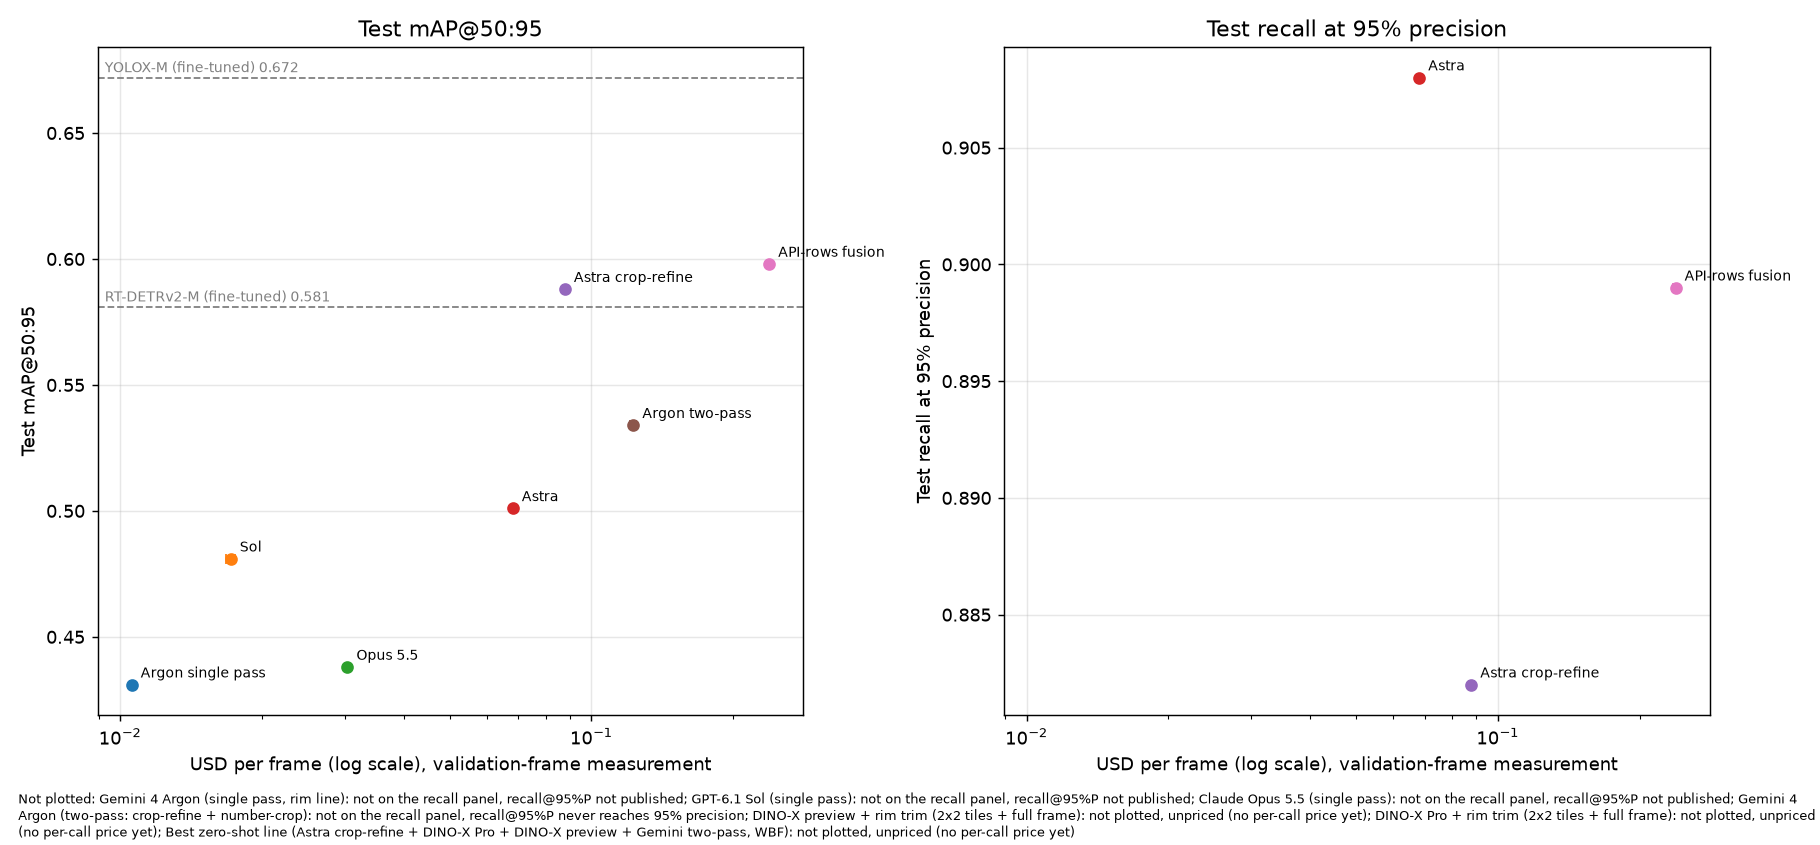
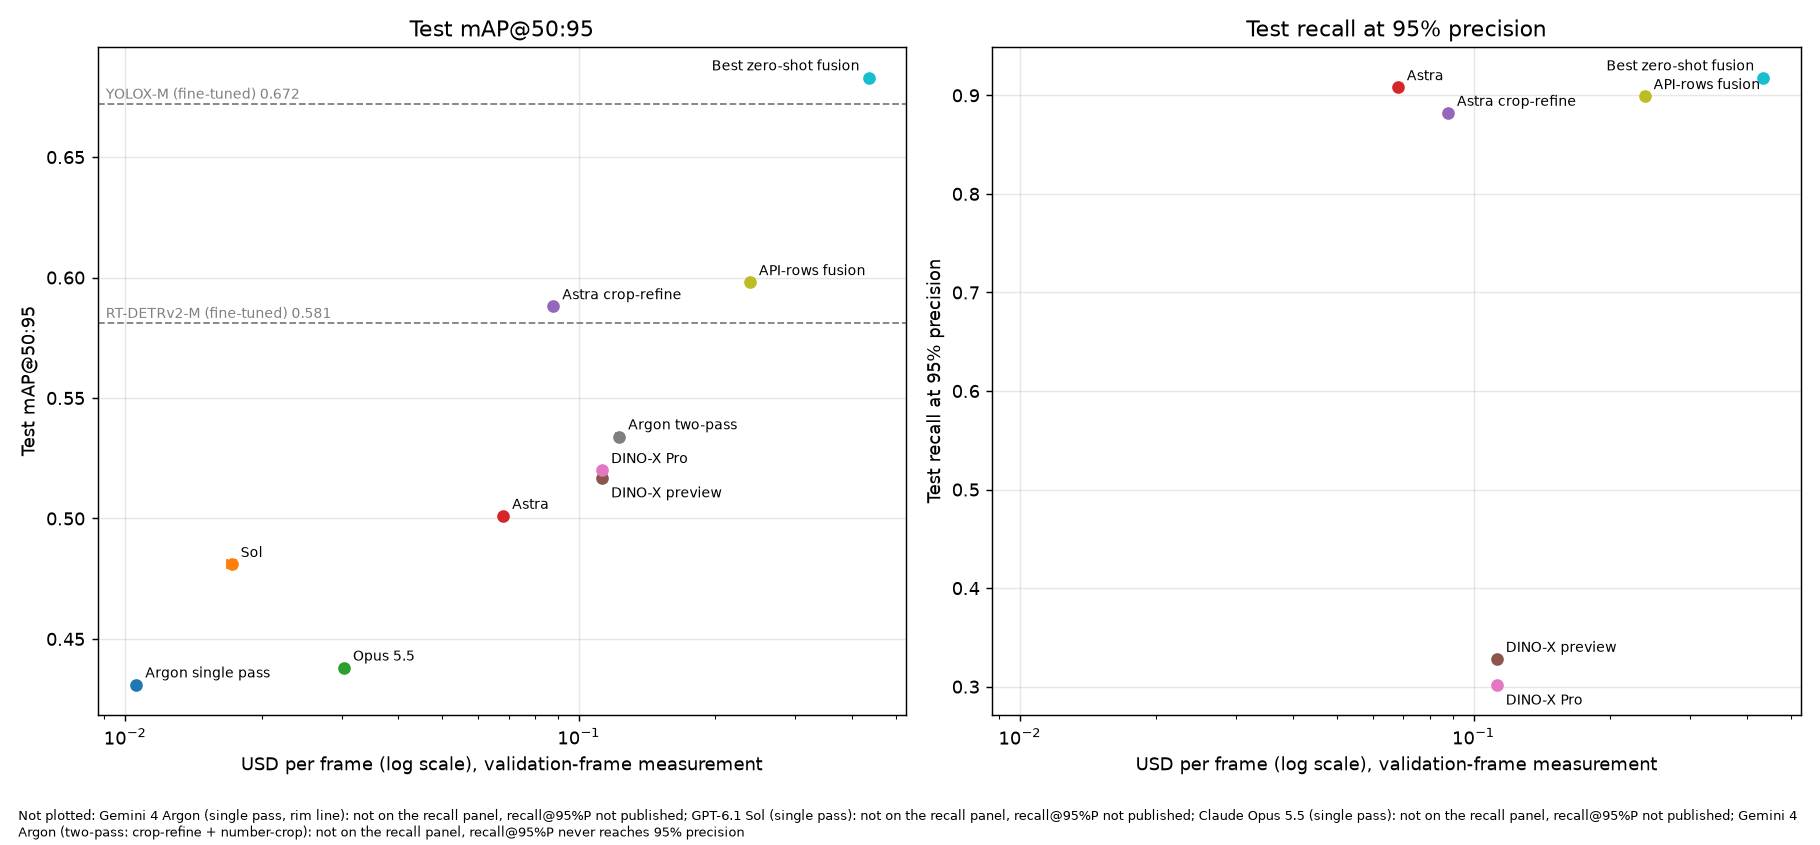
Price DINO-X at about CNY 0.15 per call ($0.0225); fill in DINO-X and best-fusion costs (#39)
User-supplied approximate price, converted at 1 USD = 6.6684 CNY (2026-10-27).
DINO-X Pro and preview: $0.1125/frame. Best zero-shot line: $0.435/frame
($0.558 from 2026-12-01). Study spend $24.13. VLM_VS_FINETUNED paragraph updated
to the priced figure; figure labels de-collided. Unpriced path stays tested through a
test-only price book.

diff --git a/tests/cost/test_compute.py b/tests/cost/test_compute.py
@@ -32,6 +32,7 @@ from tests.cost._synth import (
     astra_call,
     dinox_call,
     gemini_call,
+    unpriced_per_call_prices,
     write_run,
     write_study,
 )
@@ -44,6 +45,12 @@ ACCURACY_YAML = REPO / "benchmarks" / "basketball" / "conf" / "cost_published_ac
 @pytest.fixture(scope="module")
 def prices() -> PriceBook:
     return load_prices(PRICES_YAML)
+
+
+@pytest.fixture(scope="module")
+def unpriced() -> PriceBook:
+    """Committed prices with the per-call (DINO-X) prices nulled: the unpriced path."""
+    return unpriced_per_call_prices()
 
 
 def _build(results_dir: Path, prices: PriceBook, accuracy: PublishedAccuracy | None = None):
@@ -82,8 +89,9 @@ def test_committed_prices_are_the_users_values(prices: PriceBook) -> None:
     for model, (in_rate, out_rate) in expect.items():
         period = prices.price_at(model, date(2026, 10, 27))
         assert (period.input_per_1m, period.output_per_1m) == (in_rate, out_rate)
-    for model in ("DINO-X-1.0", "DINO-X-PREVIEW-1.0", "T-Rex-2.0"):
-        assert prices.price_at(model, date(2026, 10, 27)).per_call_usd is None
+    for model in ("DINO-X-1.0", "DINO-X-PREVIEW-1.0"):  # CNY 0.15 at 6.6684 CNY/USD
+        assert prices.price_at(model, date(2026, 10, 27)).per_call_usd == 0.0225
+    assert prices.price_at("T-Rex-2.0", date(2026, 10, 27)).per_call_usd is None
 
 
 def test_unknown_model_and_uncovered_date_are_errors(prices: PriceBook) -> None:
@@ -157,9 +165,9 @@ def test_scenarios_price_a_record_at_its_own_date_or_a_fixed_date(prices: PriceB
     assert record_cost(december, prices, None) == pytest.approx(0.018)
 
 
-def test_null_price_is_unpriced_not_free(prices: PriceBook) -> None:
+def test_null_price_is_unpriced_not_free(unpriced: PriceBook) -> None:
     rec = _rec(provider="deepdataspace", model="DINO-X-1.0")
-    assert record_cost(rec, prices, None) is None
+    assert record_cost(rec, unpriced, None) is None
 
 
 def test_missing_tokens_raise_unless_the_call_failed(prices: PriceBook) -> None:
@@ -218,9 +226,9 @@ def test_gemini_both_price_scenarios_and_image_split(tmp_path: Path, prices: Pri
     assert gem.tokens_per_frame_mean["billable_output"] == pytest.approx(500.0)
 
 
-def test_unpriced_pipeline_is_none_not_zero(tmp_path: Path, prices: PriceBook) -> None:
+def test_unpriced_pipeline_is_none_not_zero(tmp_path: Path, unpriced: PriceBook) -> None:
     write_study(tmp_path)
-    dinox = _build(tmp_path, prices).pipelines["dinox_pro_rimtrim"]
+    dinox = _build(tmp_path, unpriced).pipelines["dinox_pro_rimtrim"]
     assert dinox.usd["current"].mean is None
     assert dinox.usd["current"].per_1000_frames is None
     assert "DINO-X-1.0" in (dinox.usd["current"].unpriced_reason or "")
@@ -247,10 +255,10 @@ def test_fused_line_is_the_sum_of_its_members_run_by_run(tmp_path: Path, prices:
 
 
 def test_fused_line_with_an_unpriced_member_reports_null_and_a_lower_bound(
-    tmp_path: Path, prices: PriceBook
+    tmp_path: Path, unpriced: PriceBook
 ) -> None:
     write_study(tmp_path)
-    fused = _build(tmp_path, prices).pipelines["fuse_ad"]
+    fused = _build(tmp_path, unpriced).pipelines["fuse_ad"]
     usd = fused.usd["current"]
     assert usd.mean is None
     assert usd.lower_bound_mean == pytest.approx(0.025)  # astra alone
@@ -268,11 +276,13 @@ def test_derived_line_not_computed_when_a_member_has_no_runs(
     assert any("fuse_ag not computed" in n for n in report.notes)
 
 
-def test_study_spend_counts_projection_and_aborted_runs(tmp_path: Path, prices: PriceBook) -> None:
+def test_study_spend_counts_projection_and_aborted_runs(
+    tmp_path: Path, unpriced: PriceBook
+) -> None:
     write_study(tmp_path)
     write_run(tmp_path, "astra", "proj", {"a.jpg": [astra_call()], "b.jpg": [astra_call()]})
     write_run(tmp_path, "gemini_argon_two_pass", "3", {"a.jpg": [gemini_call()]}, status="aborted")
-    report = _build(tmp_path, prices)
+    report = _build(tmp_path, unpriced)
     # astra: 0.04 + 0.06 + 0.04 (proj); gemini: 4 x 0.009 + 0.009 (aborted run "3")
     assert report.study_spend_usd == pytest.approx(0.14 + 0.045)
     assert report.study_spend_by_file["usage/astra__proj.jsonl"] == pytest.approx(0.04)
@@ -329,11 +339,11 @@ def _proj(tmp_path: Path) -> dict[str, LoadedRun]:
     return {r.pipeline: r for r in load_runs(tmp_path)}
 
 
-def test_projection_under_the_cap(tmp_path: Path, prices: PriceBook) -> None:
+def test_projection_under_the_cap(tmp_path: Path, unpriced: PriceBook) -> None:
     proj = project(
         _proj(tmp_path),
         {"astra": "Astra"},
-        prices,
+        unpriced,
         budget_usd=40.0,
         frames_per_run=20,
         runs=2,

diff --git a/src/object_detection_eval/cost/report.py b/src/object_detection_eval/cost/report.py
@@ -212,9 +212,10 @@ def render_markdown(report: CostReport, figure_href: str = "cost_vs_accuracy.png
         "measurement, not a service-level figure.",
         "- The Gemini 4 Argon price doubles on 2026-12-01 (input $2 to $4, output $10 to $20 "
         "per 1M tokens). Both prices are shown.",
-        "- DINO-X is billed per call from a console balance. Until a per-call price is supplied "
-        "it is shown unpriced, and any fused line containing it carries a lower bound that "
-        "leaves it out.",
+        "- DINO-X is billed per call, in CNY, from a console balance. Its price is an "
+        "approximate per-call figure converted to USD at a dated exchange rate (see the note "
+        "in `conf/cost_prices.yaml`). A model with no price is shown unpriced, and any fused "
+        "line containing it carries a lower bound that leaves it out.",
         "- Single-run accuracy gaps of about 2 points between the API rows are within the "
         'published run-to-run noise (VLM_VS_FINETUNED.md, "Parity with the Ultralytics Platform '
         'benchmark"). Do not read a ranking into small differences in the accuracy columns.',
@@ -354,6 +355,16 @@ _SHORT_LABELS: dict[str, str] = {
     "fusion4": "Best zero-shot fusion",
 }
 
+#: Per-panel label offsets (points) and alignment where the default would collide or
+#: clip: DINO-X Pro and preview share a cost and swap order between the panels; the
+#: dearest point sits on the right edge.
+_LABEL_PLACEMENT: dict[tuple[str, str], tuple[float, float, str]] = {
+    ("map_y", "dinox_preview_rimtrim"): (5, -11, "left"),
+    ("recall_y", "dinox_pro_rimtrim"): (5, -11, "left"),
+    ("map_y", "fusion4"): (-5, 4, "right"),
+    ("recall_y", "fusion4"): (-5, 4, "right"),
+}
+
 
 def render_png(report: CostReport, path: Path) -> list[str]:
     """Write the two-panel figure; return the footnote lines (points left out and why)."""
@@ -385,7 +396,15 @@ def render_png(report: CostReport, path: Path) -> list[str]:
                 xerr = [[lower], [p.x_sd]]
             ax.errorbar(p.x, y, xerr=xerr, fmt="o", capsize=3, markersize=6, color=colors[p.id])
             label = _SHORT_LABELS.get(p.id, p.id)
-            ax.annotate(label, (p.x, y), textcoords="offset points", xytext=(5, 4), fontsize=8)
+            dx, dy, ha = _LABEL_PLACEMENT.get((field, p.id), (5, 4, "left"))
+            ax.annotate(
+                label,
+                (p.x, y),
+                textcoords="offset points",
+                xytext=(dx, dy),
+                ha=ha,
+                fontsize=8,
+            )
     for ref in report.accuracy.reference_lines:
         if ref.test_map5095.value is not None:
             ax_map.axhline(ref.test_map5095.value, linestyle="--", color="gray", linewidth=1)

diff --git a/tests/cost/test_report.py b/tests/cost/test_report.py
@@ -13,7 +13,14 @@ import pytest
 from object_detection_eval.cost.compute import build_report, load_accuracy, load_prices, load_runs
 from object_detection_eval.cost.report import plot_points, render_markdown, render_png
 from object_detection_eval.cost.schemas import CostReport
-from tests.cost._synth import accuracy_config, astra_call, gemini_call, write_run, write_study
+from tests.cost._synth import (
+    accuracy_config,
+    astra_call,
+    gemini_call,
+    unpriced_per_call_prices,
+    write_run,
+    write_study,
+)
 
 REPO = Path(__file__).resolve().parents[2]
 CONF = REPO / "benchmarks" / "basketball" / "conf"
@@ -24,7 +31,7 @@ def report(tmp_path: Path) -> CostReport:
     write_study(tmp_path)
     return build_report(
         load_runs(tmp_path),
-        load_prices(CONF / "cost_prices.yaml"),
+        unpriced_per_call_prices(),
         accuracy_config(),
         price_path="p.yaml",
         accuracy_path="a.yaml",
@@ -80,7 +87,7 @@ def test_png_renders_even_with_nothing_priced(tmp_path: Path) -> None:
     write_run(tmp_path, "dinox_pro_rimtrim", "2", {"a.jpg": [_dinox()]})
     rep = build_report(
         load_runs(tmp_path),
-        load_prices(CONF / "cost_prices.yaml"),
+        unpriced_per_call_prices(),
         accuracy_config(),
         price_path="p",
         accuracy_path="a",

diff --git a/tests/cost/_synth.py b/tests/cost/_synth.py
@@ -12,7 +12,14 @@ from datetime import UTC, datetime
 from pathlib import Path
 from unittest.mock import patch
 
-from object_detection_eval.cost.schemas import FrameTiming, PublishedAccuracy, RunManifest
+import yaml
+
+from object_detection_eval.cost.schemas import (
+    FrameTiming,
+    PriceBook,
+    PublishedAccuracy,
+    RunManifest,
+)
 from object_detection_eval.inference.vlm import usage
 from object_detection_eval.inference.vlm.usage import (
     TokenUsage,
@@ -22,6 +29,22 @@ from object_detection_eval.inference.vlm.usage import (
 )
 
 DAY = datetime(2026, 10, 27, 12, 0, 0, tzinfo=UTC)
+
+PRICES_YAML = Path(__file__).resolve().parents[2] / "benchmarks/basketball/conf/cost_prices.yaml"
+
+
+def unpriced_per_call_prices() -> PriceBook:
+    """The committed price book with every per-call (DeepDataSpace) price set to null.
+
+    The unpriced path (null price -> unpriced, never free; fused lines get a lower
+    bound) must stay tested now that the committed DINO-X price is filled in.
+    """
+    raw = yaml.safe_load(PRICES_YAML.read_text())
+    for entry in raw["models"].values():
+        if entry["unit"] == "per_call":
+            for period in entry["periods"]:
+                period["per_call_usd"] = None
+    return PriceBook.model_validate(raw)
 
 
 @dataclass(frozen=True)

diff --git a/tests/scripts/test_cost_rerun.py b/tests/scripts/test_cost_rerun.py
@@ -251,14 +251,12 @@ def test_project_exit_0_under_the_cap_and_writes_projection_json(mod) -> None:
     projection = json.loads((mod._RESULTS / "projection.json").read_text())
     assert projection["over_cap"] is False
     assert projection["budget_usd"] == 40.0
-    assert sorted(projection["unpriced_pipelines"]) == [
-        "dinox_preview_rimtrim",
-        "dinox_pro_rimtrim",
-    ]
+    assert projection["unpriced_pipelines"] == []  # DINO-X is priced in the committed config
     assert projection["frames_per_run"] == 20 and projection["runs"] == 2
-    # 6 priced pipelines x $0.02/frame x 20 frames x 2 runs = $4.80 remaining, $0.36 spent
-    assert projection["projected_remaining_usd"] == pytest.approx(6 * 0.02 * 20 * 2)
-    assert projection["spent_usd"] == pytest.approx(6 * 0.02 * 3)
+    # 6 token-priced pipelines at $0.02/frame plus 2 DINO-X at one $0.0225 call per frame
+    per_frame = 6 * 0.02 + 2 * 0.0225
+    assert projection["projected_remaining_usd"] == pytest.approx(per_frame * 20 * 2)
+    assert projection["spent_usd"] == pytest.approx(per_frame * 3)
 
 
 def test_project_exit_3_above_the_cap(mod) -> None:

diff --git a/benchmarks/basketball/reports/COST.md b/benchmarks/basketball/reports/COST.md
@@ -9,7 +9,7 @@ Read the numbers with these limits in mind:
 - With 2 runs the run-to-run SD is a rough indication, not a confidence interval.
 - Latency depends on provider load and the time of day; it is one afternoon's measurement, not a service-level figure.
 - The Gemini 4 Argon price doubles on 2026-12-01 (input $2 to $4, output $10 to $20 per 1M tokens). Both prices are shown.
-- DINO-X is billed per call from a console balance. Until a per-call price is supplied it is shown unpriced, and any fused line containing it carries a lower bound that leaves it out.
+- DINO-X is billed per call, in CNY, from a console balance. Its price is an approximate per-call figure converted to USD at a dated exchange rate (see the note in `conf/cost_prices.yaml`). A model with no price is shown unpriced, and any fused line containing it carries a lower bound that leaves it out.
 - Single-run accuracy gaps of about 2 points between the API rows are within the published run-to-run noise (VLM_VS_FINETUNED.md, "Parity with the Ultralytics Platform benchmark"). Do not read a ranking into small differences in the accuracy columns.
 
 ## Headline
@@ -21,11 +21,11 @@ Read the numbers with these limits in mind:
 | Claude Opus 5.5 (single pass) | 0.438 | n/a (not published) | 1.0 (1) | $0.0303 ± $0.0001 | $30.34 | $0.0303 ± $0.0001 | $30.34 | 8.2 ± 0.1 | 8.2 ± 0.1 (1) |
 | GPT-6 Astra (single pass) | 0.501 | 0.908 | 1.0 (1) | $0.0681 ± $0.0002 | $68.08 | $0.0681 ± $0.0002 | $68.08 | 10.1 ± 0.2 | 10.1 ± 0.2 (1) |
 | Astra crop-refine (ball + rim) | 0.588 | 0.882 | 2.8 (3) | $0.0878 ± $0.0010 | $87.81 | $0.0878 ± $0.0010 | $87.81 | 15.5 ± 1.3 | 15.5 ± 1.3 (1) |
+| DINO-X preview + rim trim (2x2 tiles + full frame) | 0.517 | 0.328 | 5.0 (5) | $0.1125 ± $0.0000 | $112.50 | $0.1125 ± $0.0000 | $112.50 | 31.6 ± 1.0 | 4.2 ± 0.1 (8) |
+| DINO-X Pro + rim trim (2x2 tiles + full frame) | 0.520 | 0.302 | 5.0 (5) | $0.1125 ± $0.0000 | $112.50 | $0.1125 ± $0.0000 | $112.50 | 21.0 ± 2.9 | 3.2 ± 0.8 (8) |
 | Gemini 4 Argon (two-pass: crop-refine + number-crop) | 0.534 | n/a (never reaches 95% precision) | 12.6 (13) | $0.1227 ± $0.0019 | $122.68 | $0.2454 ± $0.0037 | $245.36 | 149.7 ± 0.3 | 53.0 ± 0.2 (3) |
 | API-rows fusion (Astra + Sol + Opus + Gemini two-pass, WBF) | 0.598 | 0.899 | 15.6 (16)* | $0.2383 ± $0.0026 | $238.27 | $0.3609 ± $0.0044 | $360.95 | 189.2 ± 0.6 | 92.5 ± 1.1† |
-| DINO-X preview + rim trim (2x2 tiles + full frame) | 0.517 | 0.328 | 5.0 (5) | n/a (unpriced) | n/a | n/a (unpriced) | n/a | 31.6 ± 1.0 | 4.2 ± 0.1 (8) |
-| DINO-X Pro + rim trim (2x2 tiles + full frame) | 0.520 | 0.302 | 5.0 (5) | n/a (unpriced) | n/a | n/a (unpriced) | n/a | 21.0 ± 2.9 | 3.2 ± 0.8 (8) |
-| Best zero-shot line (Astra crop-refine + DINO-X Pro + DINO-X preview + Gemini two-pass, WBF) | 0.683 | 0.918 | 25.4 (26)* | n/a (unpriced) (lower bound $0.2105) | n/a | n/a (unpriced) | n/a | 217.8 ± 2.9 | 75.9 ± 0.6† |
+| Best zero-shot line (Astra crop-refine + DINO-X Pro + DINO-X preview + Gemini two-pass, WBF) | 0.683 | 0.918 | 25.4 (26)* | $0.4355 ± $0.0009 | $435.49 | $0.5582 ± $0.0027 | $558.17 | 217.8 ± 2.9 | 75.9 ± 0.6† |
 
 `calls/frame` counts every billed request for a frame, including second-pass crop calls and tile calls; the figure in brackets is the largest count for any single frame. USD is mean ± SD over the runs. `s/frame serial` is the mean of each frame's own wall time; `s/frame at published workers` is run wall time divided by frames, which is what the published concurrency delivers.
 
@@ -45,19 +45,17 @@ Read the numbers with these limits in mind:
 | Claude Opus 5.5 (single pass) | 1.0 | 0.0 | 2,950 (n/a / n/a / 0) | 927 | 0 | 0 | 0 |
 | GPT-6 Astra (single pass) | 1.0 | 0.0 | 3,086 (n/a / n/a / 128) | 744 | 60 | 0 | 0 |
 | Astra crop-refine (ball + rim) | 1.0 | 1.8 | 4,134 (n/a / n/a / 1,024) | 929 | 153 | 0 | 0 |
-| Gemini 4 Argon (two-pass: crop-refine + number-crop) | 1.0 | 11.6 | 20,244 (6,557 / 13,687 / n/a) | 8,219 | 6,903 | 0 | 0 |
-| API-rows fusion (Astra + Sol + Opus + Gemini two-pass, WBF) | 4.0 | 11.6 | 29,366 (6,557 / 13,687 / 1,216) | 10,990 | 7,365 | 0 | 0 |
 | DINO-X preview + rim trim (2x2 tiles + full frame) | 5.0 | 0.0 | n/a (n/a / n/a / n/a) | n/a | n/a | 0 | 0 |
 | DINO-X Pro + rim trim (2x2 tiles + full frame) | 5.0 | 0.0 | n/a (n/a / n/a / n/a) | n/a | n/a | 0 | 0 |
+| Gemini 4 Argon (two-pass: crop-refine + number-crop) | 1.0 | 11.6 | 20,244 (6,557 / 13,687 / n/a) | 8,219 | 6,903 | 0 | 0 |
+| API-rows fusion (Astra + Sol + Opus + Gemini two-pass, WBF) | 4.0 | 11.6 | 29,366 (6,557 / 13,687 / 1,216) | 10,990 | 7,365 | 0 | 0 |
 | Best zero-shot line (Astra crop-refine + DINO-X Pro + DINO-X preview + Gemini two-pass, WBF) | 12.0 | 13.4 | 24,378 (6,557 / 13,687 / 1,024) | 9,149 | 7,056 | 0 | 0 |
 
 Cached input tokens were reported for at least one pipeline and are billed at the full input rate here; the cost model has no cache discount.
 
 ## Spend
 
-The whole study cost **$14.46** at the prices in force on each call's date, counting projection runs and any aborted run.
-
-Calls with no price yet (not in that total): DINO-X-1.0: 215, DINO-X-PREVIEW-1.0: 215.
+The whole study cost **$24.13** at the prices in force on each call's date, counting projection runs and any aborted run.
 
 ![USD per frame against published accuracy](../results/cost/cost_vs_accuracy.png)
 
@@ -65,8 +63,8 @@ Calls with no price yet (not in that total): DINO-X-1.0: 215, DINO-X-PREVIEW-1.0
 
 | Model id | Provider | Period | Price | Source |
 | --- | --- | --- | --- | --- |
-| DINO-X-1.0 | deepdataspace | ... to ... | per-call price not yet supplied | https://cloud.deepdataspace.com/dashboard/usage |
-| DINO-X-PREVIEW-1.0 | deepdataspace | ... to ... | per-call price not yet supplied | https://cloud.deepdataspace.com/dashboard/usage |
+| DINO-X-1.0 | deepdataspace | ... to ... | $0.0225 per call | https://cloud.deepdataspace.com/dashboard/usage |
+| DINO-X-PREVIEW-1.0 | deepdataspace | ... to ... | $0.0225 per call | https://cloud.deepdataspace.com/dashboard/usage |
 | T-Rex-2.0 | deepdataspace | ... to ... | per-call price not yet supplied | https://cloud.deepdataspace.com/dashboard/usage |
 | claude-opus-5-5 | anthropic | ... to ... | $4 in / $20 out per 1M tokens | https://claude.com/pricing |
 | gemini-4-argon | google | ... to 2026-11-30 | $2 in / $10 out per 1M tokens | https://ai.google.dev/gemini-api/docs/pricing |

diff --git a/docs/cost/dinox-console-checklist.md b/docs/cost/dinox-console-checklist.md
@@ -18,13 +18,18 @@ count but no cost. That is why the numbers below have to come from the console.
 
 ## 1. Per-call price (the blocking item)
 
+**Filled in 2026-10-28.** The user supplied about CNY 0.15 per direct model API call,
+applied to both DINO-X models and converted at 1 USD = 6.6684 CNY (2026-10-27,
+<https://www.valutafx.com/history/usd-cny-2026-10-27>). It is approximate and was not
+cross-checked against the console balance; sections 2–4 remain open for that.
+
 Copy, for each model, the price of one API call, and the unit the console uses
 (per call, per image, or per token package):
 
 | Model id | Used by | Per-call price (USD) |
 | --- | --- | --- |
-| `DINO-X-1.0` | `dinox_pro_rimtrim` (full frame + 4 tiles = 5 calls per frame) | |
-| `DINO-X-PREVIEW-1.0` | `dinox_preview_rimtrim` (5 calls per frame) | |
+| `DINO-X-1.0` | `dinox_pro_rimtrim` (full frame + 4 tiles = 5 calls per frame) | 0.0225 (about CNY 0.15) |
+| `DINO-X-PREVIEW-1.0` | `dinox_preview_rimtrim` (5 calls per frame) | 0.0225 (about CNY 0.15) |
 | `T-Rex-2.0` | few-shot only; not in this study, listed for completeness | |
 
 If the console sells call packages, divide the package price by the number of calls it

diff --git a/benchmarks/basketball/reports/VLM_VS_FINETUNED.md b/benchmarks/basketball/reports/VLM_VS_FINETUNED.md
@@ -70,7 +70,8 @@ per frame. Argon two-pass reaches 0.534 for $0.123 per frame, which doubles to $
 when Gemini prices change on 2026-12-01, and makes about 13 calls per frame. Fusing the
 four API models gives 0.598 for $0.238 per frame. Only the best zero-shot fusion (0.683)
 scores above YOLOX-M (0.672). It makes about 25 calls and takes over 3 minutes of serial
-API time per frame, and costs at least $0.21 per frame before DINO-X's per-call fee.
+API time per frame, and costs $0.435 per frame ($0.558 from 2026-12-01), of which
+$0.225 is its ten DINO-X calls at about ¥0.15 each.
 Costs are measured on validation frames and accuracy on test, and with only two runs
 the cost spread is indicative, not a confidence interval.
 
